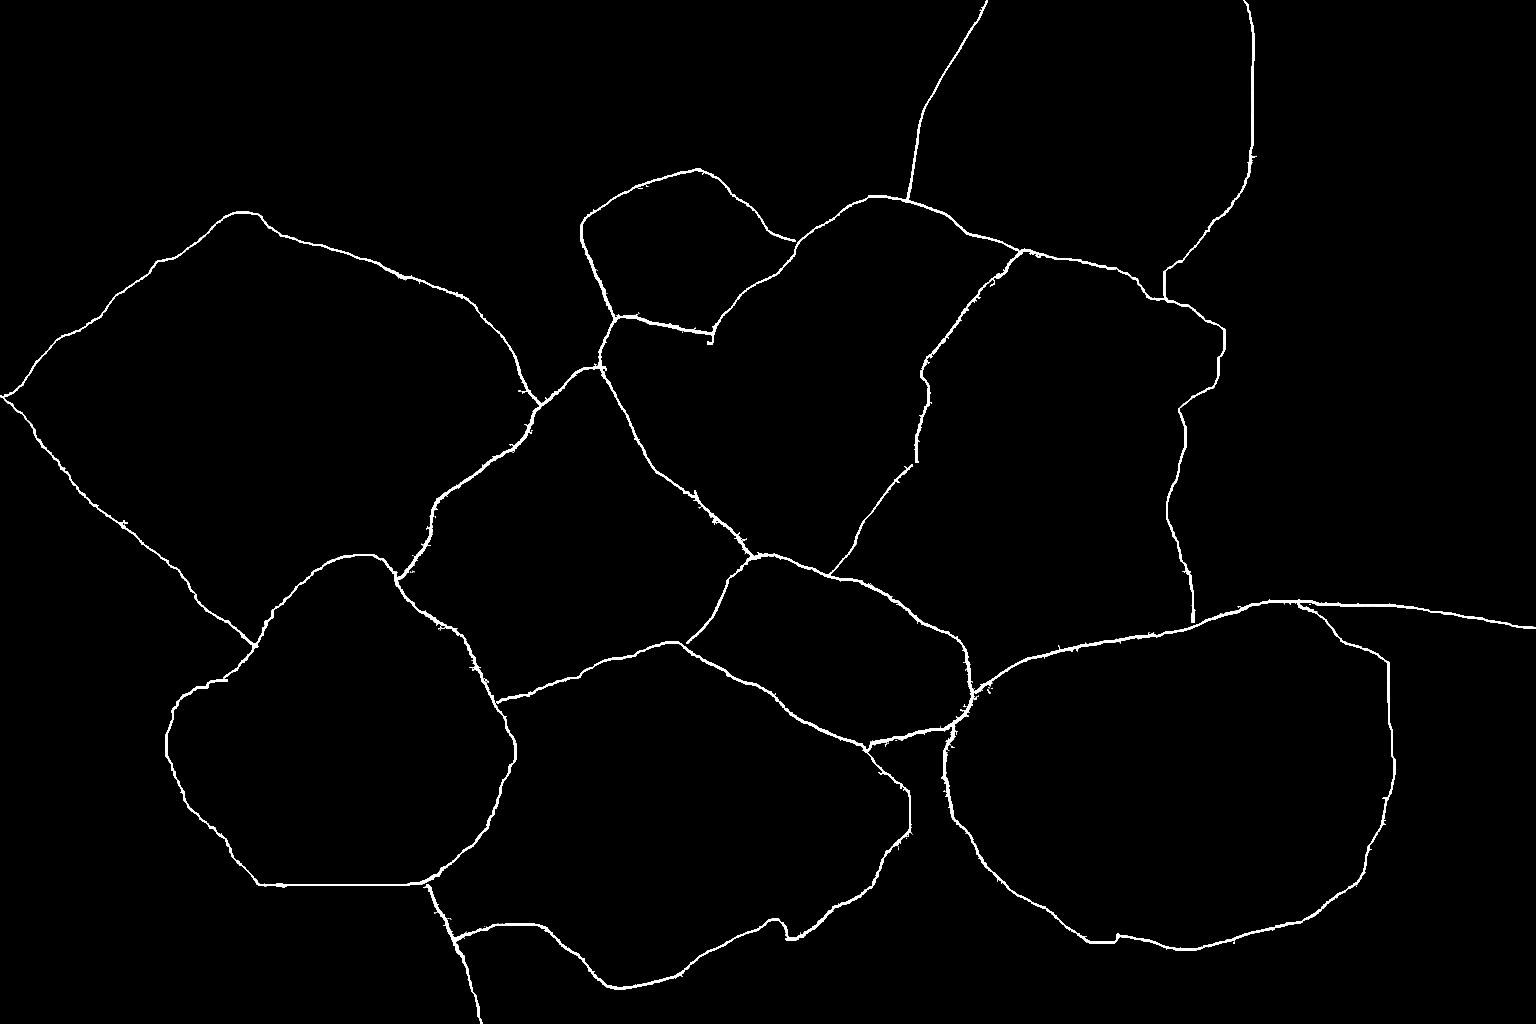
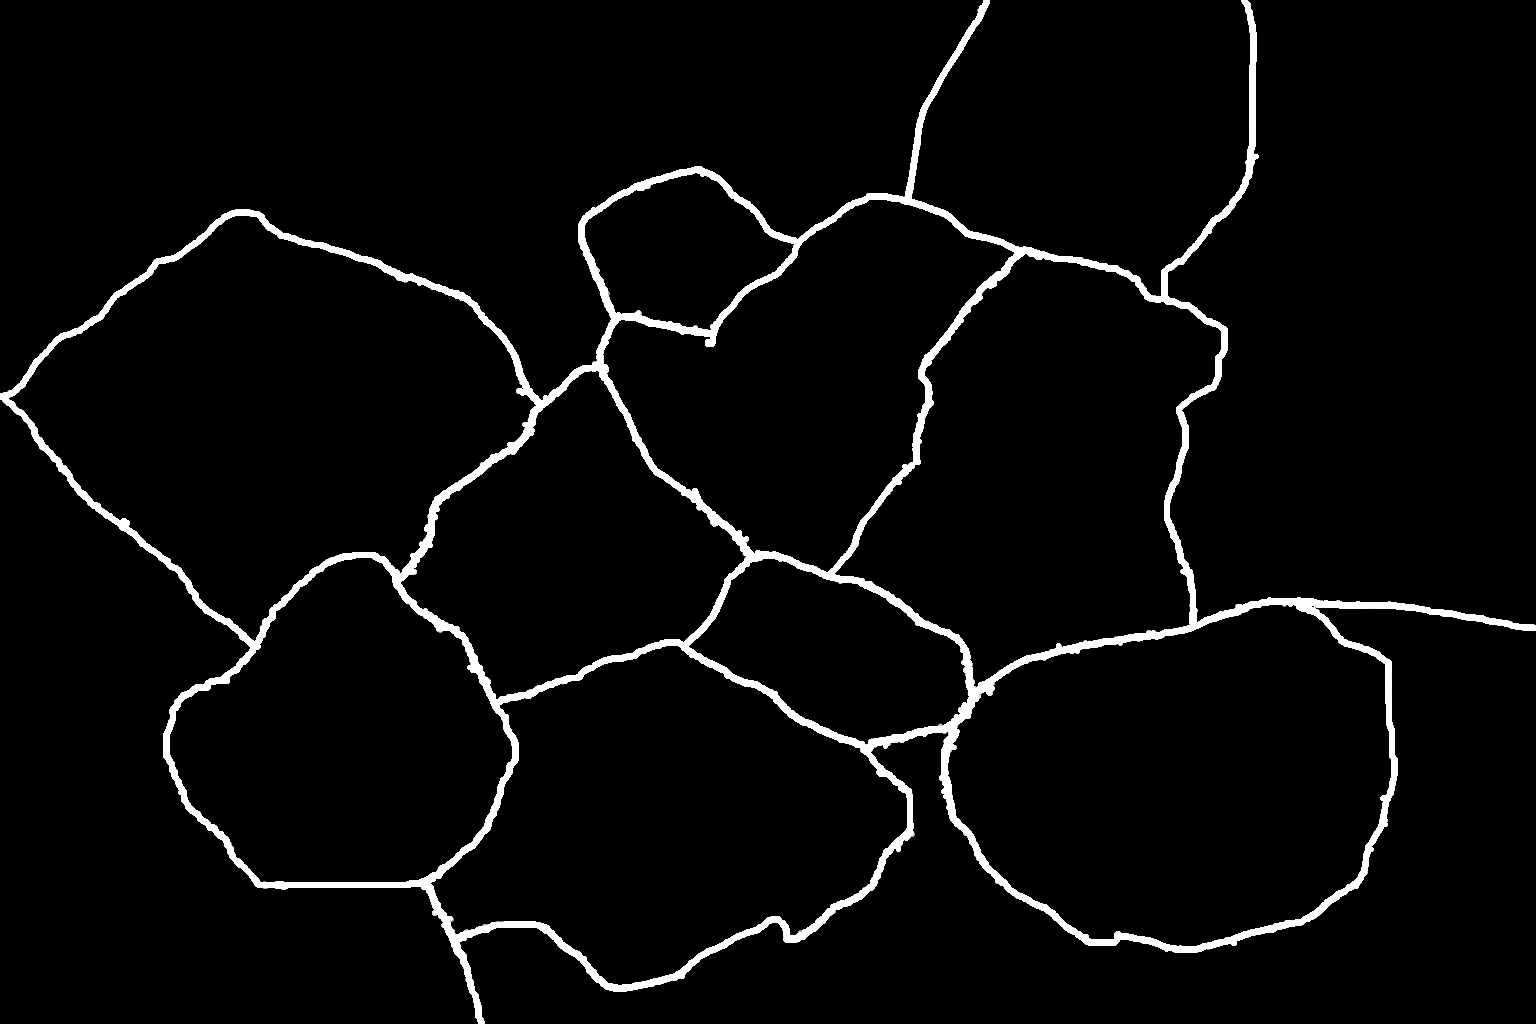
Regen polygons from updated map_limites (61k white px)

diff --git a/index.html b/index.html
@@ -655,26 +655,26 @@ html,body{width:100%;height:100%;overflow:hidden;background:var(--dark);font-fam
     <img id="map-img-night" src="map_vide_nocturne.png" alt="" draggable="false"/>
     <!-- Révélations progressives des bâtiments (clip-path sur map.png / map_nocturne.png) -->
     <!-- welfare et bulle_nego : toujours visibles dès le départ -->
-    <img class="map-reveal" id="reveal-welfare"     src="map.png" style="clip-path:polygon(809.8px 537.9px, 806.8px 547.8px, 801.6px 557px, 799.8px 566.2px, 797.5px 575.5px, 791.6px 583.4px, 783.4px 589.3px, 777px 594.6px, 771.1px 600.5px, 764.6px 605.1px, 757px 607.8px, 749.4px 609.7px, 743px 611.7px, 735.9px 613px, 729.5px 615px, 723.6px 617.7px, 717.8px 619.6px, 711.3px 621.6px, 704.9px 622.9px, 697.9px 624.9px, 691.4px 624.2px, 684.4px 623.6px, 677.9px 620.9px, 671.5px 619px, 663.9px 617.7px, 656.3px 616.3px, 643.4px 620.3px, 634.6px 617px, 627px 611.7px, 619.9px 605.1px, 612.3px 597.9px, 601.8px 591.9px, 590.6px 584.7px, 582.4px 574.8px, 574.2px 563.6px, 568.9px 551.1px, 558.4px 537.9px, 556.1px 523.4px, 553.7px 508.2px, 554.9px 492.4px, 559px 477.9px, 568.4px 466px, 580.1px 456.8px, 586.5px 444.3px, 597.7px 436.4px, 611.7px 433.1px, 623.4px 429.1px, 635.2px 425.8px, 646.3px 423.2px, 656.8px 421.9px, 666.8px 420.6px, 676.8px 419.2px, 686.1px 417.3px, 695.5px 414.6px, 704.9px 410.7px, 714.8px 406.7px, 726px 403.4px, 737.7px 398.8px, 750.6px 396.8px, 761.7px 400.8px, 772.9px 405.4px, 781.1px 415.9px, 789.3px 424.5px, 802.1px 428.5px, 812.1px 436.4px, 812.7px 452.9px, 813.3px 467.4px, 814.5px 480.5px, 815px 493.1px, 816.2px 504.3px, 815px 516.1px, 811.5px 527.3px)" draggable="false"/>
-    <img class="map-reveal" id="reveal-bulle_nego"  src="map.png" style="clip-path:polygon(548.4px 415.3px, 561.9px 423.2px, 565.4px 431.8px, 566.6px 441px, 567.2px 450.2px, 568.4px 460.1px, 562.5px 467.4px, 558.4px 475.3px, 550.2px 479.9px, 540.8px 481.2px, 532.6px 483.2px, 525.6px 485.2px, 519.1px 487.1px, 512.7px 488.5px, 506.8px 491.7px, 499.8px 487.8px, 493.4px 485.8px, 487.5px 483.2px, 482.2px 480.5px, 477.5px 477.9px, 472.9px 475.3px, 468.2px 473.3px, 464.6px 470.7px, 461.1px 466.7px, 457.6px 463.4px, 454.7px 459.4px, 451.8px 456.2px, 447.7px 454.2px, 444.1px 451.5px, 438.9px 449.6px, 433px 447.6px, 427.7px 444.3px, 422.5px 439.7px, 414.8px 435.7px, 406.6px 430.4px, 403.7px 423.2px, 411.3px 415.3px, 416px 408.7px, 419.5px 402.8px, 421.9px 396.8px, 423.6px 391.6px, 426px 385.6px, 428.3px 380.3px, 433px 376.4px, 436.5px 371.8px, 440.6px 368.5px, 445.9px 366.5px, 451.8px 366.5px, 458.2px 367.8px, 463.5px 369.8px, 468.7px 373.1px, 472.9px 375.1px, 475.8px 375.1px, 479.3px 377.1px, 482.2px 379px, 485.2px 380.3px, 487.5px 381px, 490.4px 381.7px, 492.8px 382.3px, 495.7px 382.3px, 499.2px 382.3px, 502.1px 383px, 505.1px 385px, 508px 386.3px, 510.9px 388.3px, 515px 389.6px, 518px 392.2px, 520.9px 394.8px, 526.2px 397.5px, 529.7px 400.8px, 533.8px 405.4px, 537.3px 410px)" draggable="false"/>
+    <img class="map-reveal" id="reveal-welfare"     src="map.png" style="clip-path:polygon(808.6px 537.9px, 805.1px 547.8px, 799.8px 557px, 798.6px 566.2px, 796.3px 575.5px, 789.8px 582.7px, 782.2px 588px, 775.8px 593.9px, 770.5px 599.9px, 763.5px 603.8px, 755.9px 606.4px, 748.8px 608.4px, 742.4px 610.4px, 735.4px 611.7px, 729.5px 613.7px, 723.6px 615.7px, 717.8px 618.3px, 711.3px 619.6px, 704.9px 621.6px, 698.4px 623.6px, 691.4px 622.9px, 685px 622.3px, 678.5px 619.6px, 672.1px 617.7px, 665px 616.3px, 656.8px 615px, 644.5px 619px, 635.7px 615.7px, 627.5px 611.1px, 620.5px 604.5px, 614.1px 597.2px, 603.5px 591.3px, 591.8px 584px, 583.6px 574.1px, 576px 563.6px, 570.7px 551.1px, 560.2px 537.9px, 557.2px 523.4px, 555.5px 508.2px, 559.6px 493.7px, 560.2px 478.6px, 569.5px 466.7px, 581.3px 457.5px, 587.1px 444.9px, 598.8px 437.7px, 612.9px 434.4px, 624px 429.8px, 635.7px 427.1px, 646.9px 424.5px, 657.4px 423.9px, 667.4px 422.5px, 677.3px 421.2px, 686.1px 418.6px, 695.5px 416.6px, 704.9px 412px, 714.8px 408px, 725.4px 405.4px, 737.7px 400.1px, 750px 398.1px, 761.1px 402.1px, 772.3px 406.7px, 779.9px 417.3px, 788.7px 425.8px, 801px 429.8px, 811.5px 437.7px, 811.5px 454.2px, 812.1px 468.7px, 813.3px 481.2px, 813.9px 493.1px, 815px 504.9px, 813.9px 516.1px, 809.2px 527.3px)" draggable="false"/>
+    <img class="map-reveal" id="reveal-bulle_nego"  src="map.png" style="clip-path:polygon(545.5px 415.3px, 559.6px 423.2px, 564.3px 431.8px, 564.3px 440.3px, 565.4px 449.6px, 567.2px 460.1px, 561.3px 466.7px, 557.2px 474px, 549px 478.6px, 539.6px 479.9px, 532px 481.9px, 525px 483.8px, 518.6px 485.8px, 512.1px 487.1px, 505.7px 488.5px, 499.2px 486.5px, 493.4px 484.5px, 487.5px 481.9px, 482.2px 479.2px, 477.5px 475.9px, 472.9px 474px, 468.7px 472px, 465.2px 468.7px, 461.7px 465.4px, 458.2px 462.1px, 455.9px 458.1px, 452.9px 454.8px, 448.8px 452.9px, 445.3px 450.2px, 440.6px 448.2px, 434.2px 446.9px, 428.3px 443.6px, 424.2px 439px, 417.2px 435.1px, 407.8px 429.8px, 406.1px 422.5px, 413.1px 415.3px, 417.8px 408.7px, 420.7px 402.8px, 423px 397.5px, 424.8px 391.6px, 427.1px 386.3px, 429.5px 381px, 433.6px 377.1px, 437.7px 373.1px, 441.8px 369.8px, 447.1px 367.8px, 452.9px 367.8px, 458.8px 369.1px, 464.6px 372.4px, 469.3px 375.1px, 472.9px 376.4px, 476.4px 377.7px, 479.3px 379px, 482.2px 381px, 484.6px 381.7px, 487.5px 382.3px, 489.8px 383px, 492.2px 384.3px, 495.1px 383.6px, 498.6px 383.6px, 501.6px 384.3px, 503.9px 386.3px, 506.8px 387.6px, 509.8px 388.9px, 513.3px 390.9px, 516.8px 392.9px, 519.7px 395.5px, 523.2px 398.1px, 527.9px 401.4px, 531.4px 405.4px, 536.1px 410px)" draggable="false"/>
     <!-- zones verrouillées au départ -->
-    <img class="map-reveal" id="reveal-playroom_ext" src="map.png" style="clip-path:polygon(311.1px 261px, 310.5px 276.2px, 304.7px 290px, 288.3px 300.6px, 278.9px 310.5px, 268.9px 319px, 258.4px 326.3px, 252.5px 335.5px, 250.2px 348px, 247.3px 361.2px, 240.8px 371.8px, 225px 368.5px, 211.5px 365.2px, 201.6px 365.8px, 193.4px 369.1px, 185.2px 375.1px, 177.5px 383px, 168.8px 392.9px, 158.2px 406.7px, 145.9px 421.9px, 134.8px 410px, 124.2px 404.1px, 114.8px 394.2px, 108.4px 381px, 100.8px 373.1px, 93.2px 365.2px, 85px 359.3px, 77.9px 351.3px, 70.3px 344.1px, 61.5px 337.5px, 52.7px 329.6px, 45.1px 320.4px, 38.1px 310.5px, 29.9px 299.9px, 21.1px 288.1px, 14.6px 274.9px, 4.1px 261px, 16.4px 247.2px, 24.6px 234.7px, 34px 223.5px, 48.6px 216.2px, 58.6px 209px, 63.9px 199.7px, 71.5px 192.5px, 78.5px 185.9px, 86.7px 180.6px, 92px 172px, 102px 170.1px, 108.4px 164.8px, 116px 158.9px, 122.5px 151.6px, 130.1px 143.7px, 139.5px 140.4px, 148.8px 141.1px, 158.2px 150.3px, 166.4px 155.6px, 174px 158.2px, 182.2px 160.8px, 189.8px 162.8px, 198px 165.5px, 205.7px 168.1px, 213.9px 171.4px, 222.7px 174.7px, 230.3px 180px, 240.2px 183.3px, 251.4px 187.9px, 263.1px 193.1px, 275.4px 199.7px, 283px 209.6px, 293px 220.2px, 300px 232.7px, 303.5px 246.5px)" draggable="false"/>
-    <img class="map-reveal" id="reveal-tente_cer"    src="map.png" style="clip-path:polygon(294.1px 471.3px, 295.9px 479.9px, 300.6px 489.8px, 301.2px 499.7px, 297.7px 508.2px, 293.6px 516.8px, 291.2px 526px, 288.3px 535.9px, 284.8px 545.1px, 278.9px 552.4px, 272.5px 559px, 266px 566.2px, 258.4px 571.5px, 251.4px 578.1px, 242.6px 581.4px, 233.2px 582.7px, 224.4px 582.7px, 215.6px 582.7px, 206.8px 582.7px, 198px 582.7px, 189.3px 582.7px, 180.5px 582.7px, 170.5px 582.7px, 160.5px 582.7px, 150.6px 580.7px, 143.6px 572.8px, 136.5px 564.9px, 133px 554.4px, 126.6px 547.1px, 118.9px 540.5px, 111.9px 533.3px, 107.8px 523.4px, 103.7px 513.5px, 100.8px 503px, 97.9px 493.1px, 98.4px 481.9px, 101.4px 471.3px, 104.9px 461.4px, 118.4px 453.5px, 133px 448.9px, 136.5px 442.3px, 141.2px 437px, 145.9px 431.8px, 150px 426.5px, 152.3px 419.9px, 155.3px 413.3px, 159.4px 407.4px, 162.3px 400.1px, 167.6px 394.8px, 172.9px 388.9px, 178.1px 383.6px, 184px 376.4px, 191px 371.8px, 198.6px 368.5px, 206.8px 366.5px, 215px 365.8px, 222.7px 369.1px, 229.7px 376.4px, 233.8px 387.6px, 238.5px 395.5px, 243.2px 400.8px, 248.4px 404.7px, 253.7px 408.7px, 257.8px 414px, 265.4px 415.9px, 271.3px 420.6px, 273.6px 427.8px, 276px 435.1px, 278.9px 441.7px, 281.8px 448.9px, 285.4px 455.5px, 288.9px 463.4px)" draggable="false"/>
-    <img class="map-reveal" id="reveal-mixroom"      src="map.png" style="clip-path:polygon(523.2px 514.2px, 532.6px 526px, 532.6px 538.5px, 529.7px 550.4px, 520.9px 559.6px, 515.6px 569.5px, 511.5px 580.1px, 504.5px 588px, 495.7px 594.6px, 486.3px 599.9px, 479.3px 606.4px, 472.3px 613.7px, 458.2px 607.8px, 448.8px 607.1px, 441.8px 612.4px, 434.2px 615.7px, 426.6px 620.3px, 418.9px 624.9px, 410.2px 629.5px, 400.8px 638.1px, 389.6px 644.7px, 378.5px 648px, 366.2px 650px, 354.5px 648px, 346.3px 638.7px, 338.7px 628.9px, 329.3px 622.3px, 321.7px 613.7px, 310.5px 608.4px, 289.5px 609.1px, 262.5px 610.4px, 255.5px 595.2px, 257.2px 576.8px, 279.5px 553.7px, 287.7px 538.5px, 291.8px 526px, 295.3px 514.2px, 300px 503.6px, 302.3px 493.1px, 297.1px 479.9px, 291.2px 465.4px, 305.3px 458.8px, 317px 453.5px, 327.5px 448.9px, 338.7px 446.9px, 345.1px 441px, 352.1px 436.4px, 360.4px 434.4px, 368.6px 433.1px, 375px 429.1px, 381.4px 426.5px, 389.1px 424.5px, 396.1px 423.9px, 403.7px 429.8px, 410.2px 434.4px, 416px 438.4px, 421.9px 441px, 426.6px 445.6px, 431.3px 448.2px, 436.5px 450.9px, 442.4px 451.5px, 447.1px 454.8px, 452.3px 457.5px, 456.4px 462.1px, 459.4px 467.4px, 464.1px 472px, 469.3px 475.9px, 477px 479.2px, 484.6px 483.8px, 495.7px 488.5px, 506.2px 495px, 513.3px 504.3px)" draggable="false"/>
-    <img class="map-reveal" id="reveal-bat1"         src="map.png" style="clip-path:polygon(563.7px 205px, 560.2px 212.3px, 555.5px 218.8px, 551.4px 224.8px, 547.3px 230.7px, 542.6px 235.3px, 540.2px 241.3px, 539.1px 247.2px, 543.2px 259.7px, 541.4px 268.3px, 539.1px 277.5px, 536.1px 286.7px, 536.1px 303.9px, 529.1px 310.5px, 522.1px 319px, 515px 329.6px, 506.8px 342.1px, 497.5px 363.2px, 485.2px 378.4px, 472.3px 373.1px, 460px 367.2px, 447.1px 365.2px, 436.5px 355.3px, 426.6px 346.7px, 417.2px 338.2px, 409px 327.6px, 398.4px 321px, 389.1px 313.1px, 380.9px 303.9px, 375px 292px, 369.7px 280.2px, 364.5px 268.3px, 358.6px 257.1px, 417.8px 225.4px, 418.9px 218.2px, 421.9px 210.9px, 426.6px 205px, 430.7px 199.7px, 433.6px 195.1px, 437.7px 190.5px, 442.4px 187.2px, 447.1px 185.2px, 451.2px 183.3px, 454.7px 181.3px, 457px 178.6px, 458.8px 175.3px, 461.1px 172.7px, 463.5px 170.7px, 465.8px 167.4px, 467px 161.5px, 469.9px 157.5px, 472.9px 154.2px, 477px 151px, 481.1px 149px, 485.2px 146.3px, 489.8px 142.4px, 495.7px 137.1px, 502.1px 133.8px, 509.2px 129.9px, 516.2px 129.9px, 522.7px 131.2px, 530.3px 132.5px, 537.9px 134.5px, 544.9px 137.8px, 553.1px 141.1px, 559px 147px, 565.4px 152.9px, 576.6px 156.9px, 590px 162.2px, 590px 173.4px, 576.6px 187.2px, 570.1px 196.4px)" draggable="false"/>
-    <img class="map-reveal" id="reveal-bat2"         src="map.png" style="clip-path:polygon(711.3px 253.1px, 703.7px 257.7px, 697.9px 261px, 695.5px 264.3px, 899.4px 352px, 690.2px 270.3px, 691.4px 274.9px, 693.8px 280.8px, 693.8px 286.7px, 693.8px 293.3px, 692px 298.6px, 690.2px 305.2px, 689.1px 313.1px, 686.1px 320.4px, 683.2px 330.2px, 696.1px 413.3px, 683.8px 415.9px, 670.9px 418.6px, 658px 420.6px, 645.1px 422.5px, 631.1px 425.8px, 616.4px 429.1px, 599.4px 434.4px, 576.6px 450.2px, 566.6px 431.1px, 556.1px 416.6px, 540.8px 410px, 528.5px 398.8px, 515px 388.3px, 495.7px 381px, 502.1px 354.6px, 517.4px 327px, 537.3px 302.6px, 537.3px 289.4px, 540.2px 276.2px, 544.3px 264.3px, 543.8px 253.1px, 540.8px 241.3px, 548.4px 231.4px, 555.5px 222.1px, 560.7px 212.9px, 565.4px 204.3px, 571.3px 197.1px, 576.6px 188.5px, 584.2px 183.3px, 590px 176.7px, 595.3px 169.4px, 604.7px 167.4px, 615.2px 169.4px, 624px 170.7px, 631.6px 172px, 639.3px 174.7px, 645.7px 176px, 652.1px 177.3px, 658px 180px, 663.3px 183.3px, 668px 188.5px, 671.5px 195.8px, 676.2px 197.1px, 681.4px 197.1px, 686.1px 199.1px, 690.8px 201px, 696.7px 201.7px, 700.8px 205px, 704.3px 209.6px, 709.6px 212.9px, 715.4px 216.2px, 716.6px 222.8px, 716.6px 229.4px, 713.1px 236.6px, 713.1px 242.6px, 713.1px 247.9px)" draggable="false"/>
-    <img class="map-reveal" id="reveal-cantina"      src="map.png" style="clip-path:polygon(899.4px 303.2px, 899.4px 314.4px, 899.4px 326.3px, 899.4px 338.2px, 899.4px 350px, 899.4px 363.2px, 899.4px 377.7px, 899.4px 393.5px, 899.4px 412px, 880.1px 410px, 861.3px 406.1px, 847.3px 403.4px, 835.5px 401.4px, 825px 399.5px, 815.6px 398.1px, 808px 398.1px, 799.8px 398.1px, 792.8px 398.1px, 785.2px 397.5px, 777.5px 397.5px, 770.5px 396.2px, 762.9px 395.5px, 755.3px 395.5px, 747.1px 395.5px, 737.1px 397.5px, 725.4px 399.5px, 707.8px 407.4px, 699px 400.1px, 697.9px 385.6px, 694.9px 374.4px, 691.4px 364.5px, 688.5px 354px, 685px 344.1px, 683.8px 333.5px, 686.7px 323px, 690.2px 312.5px, 692px 303.2px, 694.9px 294px, 694.9px 285.4px, 693.2px 275.5px, 694.3px 266.3px, 702.5px 259.7px, 710.7px 255.1px, 714.3px 247.2px, 714.3px 236px, 717.8px 227.4px, 688.5px 174px, 698.4px 164.1px, 707.8px 152.3px, 717.8px 141.1px, 727.7px 125.9px, 734.2px 89.6px, 737.7px 0px, 761.7px 0px, 785.2px 0px, 808.6px 0px, 832.6px 0px, 857.2px 0px, 883.6px 0px, 899.4px 26.4px, 899.4px 79.8px, 899.4px 119.3px, 899.4px 149px, 899.4px 174px, 899.4px 194.5px, 899.4px 212.9px, 899.4px 228.7px, 899.4px 243.2px, 899.4px 256.4px, 899.4px 268.3px, 899.4px 280.2px, 899.4px 292px)" draggable="false"/>
-    <img class="map-reveal" id="reveal-pmu"          src="map.png" style="clip-path:polygon(464.1px 168.1px, 460.5px 172.7px, 457px 177.3px, 452.9px 180.6px, 448.2px 183.3px, 444.1px 185.2px, 441.2px 187.2px, 438.3px 189.2px, 435.9px 191.2px, 434.2px 193.1px, 432.4px 195.1px, 430.7px 197.8px, 428.9px 201px, 426.6px 203.7px, 424.2px 205.7px, 421.9px 209px, 418.9px 212.9px, 416px 218.8px, 411.9px 218.2px, 407.8px 217.5px, 404.3px 216.9px, 400.2px 216.2px, 397.3px 214.2px, 393.2px 213.6px, 389.1px 212.9px, 384.4px 212.3px, 379.7px 210.9px, 375px 209.6px, 370.3px 207.6px, 362.1px 207.6px, 358px 203px, 355.7px 197.8px, 354.5px 191.8px, 352.1px 185.9px, 349.2px 180.6px, 347.5px 174.7px, 345.1px 168.1px, 342.2px 161.5px, 341px 154.2px, 341.6px 147px, 346.3px 141.1px, 352.1px 136.5px, 356.8px 132.5px, 362.1px 128.5px, 368px 126.6px, 372.1px 123.3px, 376.8px 121.3px, 381.4px 119.3px, 386.1px 118px, 390.8px 116.7px, 394.9px 115.4px, 399px 114px, 403.1px 113.4px, 407.8px 112.1px, 411.9px 114px, 416px 115.4px, 420.1px 117.3px, 423px 120.6px, 426px 124.6px, 428.3px 127.9px, 431.3px 131.2px, 434.2px 132.5px, 437.1px 134.5px, 440px 136.5px, 442.4px 139.1px, 444.1px 143px, 446.5px 145.7px, 448.2px 149px, 450px 152.3px, 454.7px 154.9px, 462.3px 158.2px, 465.8px 162.8px)" draggable="false"/>
+    <img class="map-reveal" id="reveal-playroom_ext" src="map.png" style="clip-path:polygon(309.4px 261px, 309.4px 276.2px, 302.9px 290px, 287.1px 299.9px, 277.7px 309.8px, 267.2px 318.4px, 257.2px 325.6px, 252px 334.9px, 249px 346.7px, 245.5px 359.3px, 239.6px 369.8px, 223.8px 366.5px, 210.9px 363.9px, 201px 364.5px, 192.8px 367.8px, 185.2px 373.1px, 177px 381.7px, 168.2px 391.6px, 158.2px 400.8px, 145.9px 419.9px, 135.4px 408.7px, 124.2px 402.8px, 116px 390.9px, 109px 379.7px, 101.4px 371.8px, 93.8px 363.9px, 86.1px 357.9px, 79.1px 350px, 72.7px 341.5px, 62.1px 336.8px, 53.9px 328.9px, 46.3px 319.7px, 39.8px 309.8px, 32.2px 299.3px, 23.4px 288.1px, 16.4px 274.9px, 7px 261px, 18.2px 247.2px, 26.4px 234.7px, 35.7px 224.1px, 50.4px 216.9px, 59.8px 209.6px, 65px 200.4px, 72.7px 193.8px, 80.3px 187.2px, 87.3px 181.3px, 93.2px 173.4px, 102.5px 171.4px, 109.6px 166.1px, 116.6px 160.2px, 123.6px 153.6px, 130.7px 146.3px, 139.5px 141.7px, 148.8px 142.4px, 158.2px 151.6px, 166.4px 157.5px, 174px 160.2px, 181.6px 162.2px, 189.3px 164.1px, 197.5px 166.8px, 205.1px 169.4px, 213.3px 172.7px, 221.5px 176px, 229.1px 181.3px, 238.5px 185.2px, 249.6px 188.5px, 261.9px 193.8px, 274.2px 200.4px, 281.3px 210.3px, 291.2px 220.8px, 298.8px 233.3px, 302.3px 246.5px)" draggable="false"/>
+    <img class="map-reveal" id="reveal-tente_cer"    src="map.png" style="clip-path:polygon(292.4px 471.3px, 294.7px 479.9px, 299.4px 489.8px, 300px 499.7px, 296.5px 508.2px, 292.4px 516.1px, 290px 525.4px, 287.1px 534.6px, 283.6px 543.8px, 278.3px 551.7px, 271.9px 558.3px, 265.4px 565.6px, 257.8px 570.2px, 250.8px 576.8px, 242px 580.1px, 233.2px 581.4px, 224.4px 581.4px, 215.6px 581.4px, 206.8px 581.4px, 198px 581.4px, 189.3px 581.4px, 180.5px 581.4px, 171.1px 581.4px, 161.7px 580.7px, 151.2px 580.1px, 144.7px 570.8px, 137.7px 563.6px, 134.2px 553.1px, 127.1px 546.5px, 120.1px 539.9px, 113.1px 532.6px, 109px 522.7px, 104.9px 512.8px, 102px 503px, 99px 492.4px, 100.2px 481.9px, 102.5px 471.3px, 107.2px 461.4px, 121.9px 454.2px, 134.2px 449.6px, 138.3px 443.6px, 143px 437.7px, 147.1px 432.4px, 151.2px 427.1px, 153.5px 421.2px, 156.4px 414.6px, 160px 408.7px, 163.5px 401.4px, 168.2px 396.8px, 173.4px 390.2px, 178.7px 385px, 184.6px 378.4px, 191.6px 373.1px, 198.6px 369.8px, 206.8px 367.8px, 215px 367.2px, 222.7px 370.5px, 229.1px 379px, 233.2px 390.2px, 237.9px 396.8px, 242.6px 401.4px, 247.9px 405.4px, 252.5px 410px, 256.1px 415.9px, 264.8px 416.6px, 270.1px 421.2px, 273px 428.5px, 274.8px 435.7px, 276px 443px, 280.7px 448.9px, 284.2px 456.2px, 287.1px 463.4px)" draggable="false"/>
+    <img class="map-reveal" id="reveal-mixroom"      src="map.png" style="clip-path:polygon(521.5px 514.2px, 531.4px 526px, 531.4px 537.9px, 527.9px 549.8px, 519.1px 559px, 514.5px 568.9px, 510.4px 579.4px, 503.3px 587.3px, 493.4px 593.3px, 485.2px 598.5px, 478.1px 605.8px, 471.1px 612.4px, 456.4px 603.8px, 448.2px 605.8px, 441.2px 611.1px, 434.2px 614.4px, 426.6px 618.3px, 418.9px 623.6px, 410.2px 627.5px, 400.8px 636.8px, 390.2px 642.7px, 378.5px 646.7px, 366.8px 648.6px, 355.1px 646.7px, 346.9px 637.4px, 339.8px 627.5px, 330.5px 620.9px, 322.9px 612.4px, 311.7px 607.1px, 291.8px 607.8px, 263.7px 609.7px, 257.2px 594.6px, 259.6px 575.5px, 282.4px 552.4px, 290px 537.9px, 293.6px 525.4px, 297.1px 514.2px, 301.8px 503.6px, 303.5px 493.1px, 299.4px 480.5px, 292.4px 466px, 306.4px 460.1px, 318.8px 454.8px, 329.3px 450.2px, 339.8px 447.6px, 345.7px 441.7px, 353.3px 437.7px, 361.5px 435.7px, 369.1px 434.4px, 375.6px 430.4px, 382px 427.8px, 389.1px 425.8px, 396.1px 425.2px, 403.7px 432.4px, 410.2px 436.4px, 416px 439.7px, 421.3px 442.3px, 426px 446.9px, 431.3px 449.6px, 435.9px 452.2px, 441.2px 452.9px, 446.5px 456.2px, 451.2px 459.4px, 455.3px 463.4px, 458.8px 468.7px, 462.3px 472.6px, 468.2px 476.6px, 475.2px 479.9px, 482.8px 484.5px, 492.2px 489.1px, 504.5px 495.7px, 511.5px 504.3px)" draggable="false"/>
+    <img class="map-reveal" id="reveal-bat1"         src="map.png" style="clip-path:polygon(561.9px 205px, 558.4px 212.3px, 553.7px 218.8px, 549.6px 224.8px, 545.5px 230.1px, 541.4px 234.7px, 539.6px 240.6px, 537.9px 246.5px, 542px 258.4px, 540.2px 267px, 537.9px 275.5px, 535px 285.4px, 535px 301.2px, 528.5px 309.2px, 521.5px 317.7px, 514.5px 327.6px, 506.2px 340.1px, 497.5px 360.6px, 485.2px 376.4px, 472.3px 371.8px, 460px 365.8px, 447.7px 363.2px, 437.1px 353.3px, 427.1px 345.4px, 417.8px 336.8px, 409.6px 326.3px, 399.6px 319.7px, 389.6px 312.5px, 381.4px 302.6px, 375.6px 291.4px, 370.9px 279.5px, 365.6px 267.6px, 360.4px 256.4px, 418.9px 224.8px, 420.1px 218.2px, 423px 210.9px, 428.3px 205px, 431.8px 199.7px, 435.4px 195.1px, 439.5px 191.2px, 444.1px 187.9px, 448.8px 185.9px, 452.3px 183.9px, 455.9px 181.9px, 458.2px 179.3px, 460px 176.7px, 462.3px 174px, 464.1px 171.4px, 466.4px 168.8px, 467.6px 163.5px, 470.5px 158.9px, 473.4px 156.2px, 477px 153.6px, 481.1px 151px, 485.2px 148.3px, 489.8px 145px, 495.7px 139.1px, 501.6px 135.1px, 508.6px 131.8px, 515.6px 131.2px, 522.1px 132.5px, 529.7px 133.8px, 536.7px 135.8px, 543.8px 139.1px, 552px 141.7px, 557.8px 147.7px, 564.3px 153.6px, 574.8px 158.2px, 588.9px 162.8px, 588.9px 174px, 574.8px 187.2px, 567.8px 197.1px)" draggable="false"/>
+    <img class="map-reveal" id="reveal-bat2"         src="map.png" style="clip-path:polygon(709.6px 253.1px, 702px 257.7px, 696.7px 261px, 693.8px 263.7px, 690.8px 267px, 689.1px 269.6px, 689.6px 273.6px, 692px 280.2px, 692.6px 285.4px, 692.6px 292px, 691.4px 297.3px, 689.6px 303.9px, 688.5px 311.8px, 685px 319px, 682.6px 328.9px, 695.5px 412px, 683.2px 414.6px, 670.9px 417.3px, 658px 419.2px, 645.1px 421.2px, 631.1px 423.9px, 616.4px 427.8px, 600px 432.4px, 577.7px 447.6px, 567.8px 429.1px, 556.6px 415.9px, 541.4px 409.4px, 529.7px 397.5px, 515.6px 387.6px, 497.5px 379.7px, 503.3px 354px, 520.9px 325px, 538.5px 301.9px, 538.5px 289.4px, 541.4px 276.2px, 546.7px 264.3px, 545.5px 253.1px, 542.6px 241.9px, 549.6px 231.4px, 556.6px 222.8px, 561.9px 213.6px, 567.8px 205.7px, 573px 198.4px, 577.7px 189.8px, 585.4px 184.6px, 591.2px 178px, 596.5px 170.7px, 607px 170.7px, 616.4px 171.4px, 624.6px 172px, 632.2px 173.4px, 639.8px 176px, 646.3px 177.3px, 652.1px 178.6px, 658px 181.3px, 663.3px 185.2px, 667.4px 191.2px, 671.5px 197.1px, 675.6px 198.4px, 680.9px 198.4px, 685px 200.4px, 689.6px 201.7px, 695.5px 203px, 699.6px 206.3px, 703.1px 210.3px, 707.8px 213.6px, 714.3px 216.9px, 715.4px 222.8px, 715.4px 229.4px, 711.9px 236.6px, 711.9px 242.6px, 711.9px 247.9px)" draggable="false"/>
+    <img class="map-reveal" id="reveal-cantina"      src="map.png" style="clip-path:polygon(899.4px 303.2px, 899.4px 314.4px, 899.4px 326.3px, 899.4px 338.2px, 899.4px 350px, 899.4px 363.2px, 899.4px 377.7px, 899.4px 393.5px, 899.4px 412px, 878.3px 408px, 860.7px 404.7px, 846.7px 402.1px, 835px 400.1px, 824.4px 398.1px, 815.6px 396.8px, 807.4px 396.8px, 799.8px 396.8px, 792.2px 396.8px, 785.2px 396.2px, 778.1px 396.2px, 771.1px 394.8px, 763.5px 394.2px, 755.9px 394.2px, 747.7px 394.2px, 737.7px 395.5px, 726px 398.1px, 709px 406.1px, 700.2px 398.8px, 699.6px 384.3px, 696.1px 373.1px, 692.6px 363.2px, 690.2px 353.3px, 686.1px 344.1px, 685px 333.5px, 687.9px 322.3px, 691.4px 312.5px, 693.2px 303.2px, 696.1px 294.7px, 696.1px 285.4px, 694.3px 276.2px, 695.5px 266.3px, 703.7px 260.4px, 711.9px 255.8px, 714.8px 247.9px, 715.4px 237.3px, 718.9px 228.7px, 689.6px 174.7px, 699.6px 165.5px, 708.4px 153.6px, 718.4px 142.4px, 728.3px 127.2px, 737.1px 102.8px, 737.7px 0px, 761.7px 0px, 785.2px 0px, 808.6px 0px, 832.6px 0px, 857.2px 0px, 883.6px 0px, 899.4px 26.4px, 899.4px 79.8px, 899.4px 119.3px, 899.4px 149px, 899.4px 174px, 899.4px 194.5px, 899.4px 212.9px, 899.4px 228.7px, 899.4px 243.2px, 899.4px 256.4px, 899.4px 268.3px, 899.4px 280.2px, 899.4px 292px)" draggable="false"/>
+    <img class="map-reveal" id="reveal-pmu"          src="map.png" style="clip-path:polygon(462.3px 168.1px, 458.8px 172.7px, 455.3px 176.7px, 451.8px 180px, 446.5px 182.6px, 443px 184.6px, 440px 186.5px, 437.7px 188.5px, 435.4px 189.8px, 433.6px 192.5px, 431.3px 194.5px, 430.1px 197.1px, 428.3px 199.7px, 426px 202.4px, 423.6px 204.3px, 421.3px 207px, 418.9px 211.6px, 416px 217.5px, 411.9px 216.9px, 408.4px 215.6px, 404.3px 215.6px, 400.8px 214.9px, 397.3px 212.9px, 393.8px 212.3px, 389.6px 211.6px, 385.5px 210.9px, 380.9px 210.3px, 376.2px 208.3px, 373.8px 204.3px, 363.3px 206.3px, 359.2px 202.4px, 356.8px 197.1px, 355.7px 191.2px, 353.3px 185.9px, 350.4px 180.6px, 348.6px 174px, 346.3px 168.1px, 343.9px 161.5px, 342.2px 154.2px, 342.8px 147px, 348px 141.7px, 352.7px 137.1px, 358px 133.2px, 363.3px 129.9px, 368.6px 127.2px, 373.8px 125.2px, 379.1px 123.9px, 382.6px 120.6px, 387.3px 119.3px, 391.4px 118px, 395.5px 116.7px, 399.6px 115.4px, 403.7px 114.7px, 407.8px 113.4px, 411.9px 116px, 416px 117.3px, 419.5px 118.7px, 423px 121.9px, 425.4px 126.6px, 427.7px 129.9px, 430.7px 131.8px, 433px 133.8px, 435.9px 135.8px, 438.9px 137.8px, 441.2px 140.4px, 443px 143.7px, 445.3px 146.3px, 447.1px 149.6px, 448.2px 152.9px, 452.9px 155.6px, 458.8px 158.9px, 464.6px 162.8px)" draggable="false"/>
     <!-- versions nocturnes -->
-    <img class="map-reveal-night" id="reveal-night-welfare"     src="map_nocturne.png" style="clip-path:polygon(809.8px 537.9px, 806.8px 547.8px, 801.6px 557px, 799.8px 566.2px, 797.5px 575.5px, 791.6px 583.4px, 783.4px 589.3px, 777px 594.6px, 771.1px 600.5px, 764.6px 605.1px, 757px 607.8px, 749.4px 609.7px, 743px 611.7px, 735.9px 613px, 729.5px 615px, 723.6px 617.7px, 717.8px 619.6px, 711.3px 621.6px, 704.9px 622.9px, 697.9px 624.9px, 691.4px 624.2px, 684.4px 623.6px, 677.9px 620.9px, 671.5px 619px, 663.9px 617.7px, 656.3px 616.3px, 643.4px 620.3px, 634.6px 617px, 627px 611.7px, 619.9px 605.1px, 612.3px 597.9px, 601.8px 591.9px, 590.6px 584.7px, 582.4px 574.8px, 574.2px 563.6px, 568.9px 551.1px, 558.4px 537.9px, 556.1px 523.4px, 553.7px 508.2px, 554.9px 492.4px, 559px 477.9px, 568.4px 466px, 580.1px 456.8px, 586.5px 444.3px, 597.7px 436.4px, 611.7px 433.1px, 623.4px 429.1px, 635.2px 425.8px, 646.3px 423.2px, 656.8px 421.9px, 666.8px 420.6px, 676.8px 419.2px, 686.1px 417.3px, 695.5px 414.6px, 704.9px 410.7px, 714.8px 406.7px, 726px 403.4px, 737.7px 398.8px, 750.6px 396.8px, 761.7px 400.8px, 772.9px 405.4px, 781.1px 415.9px, 789.3px 424.5px, 802.1px 428.5px, 812.1px 436.4px, 812.7px 452.9px, 813.3px 467.4px, 814.5px 480.5px, 815px 493.1px, 816.2px 504.3px, 815px 516.1px, 811.5px 527.3px)" draggable="false"/>
-    <img class="map-reveal-night" id="reveal-night-bulle_nego"  src="map_nocturne.png" style="clip-path:polygon(548.4px 415.3px, 561.9px 423.2px, 565.4px 431.8px, 566.6px 441px, 567.2px 450.2px, 568.4px 460.1px, 562.5px 467.4px, 558.4px 475.3px, 550.2px 479.9px, 540.8px 481.2px, 532.6px 483.2px, 525.6px 485.2px, 519.1px 487.1px, 512.7px 488.5px, 506.8px 491.7px, 499.8px 487.8px, 493.4px 485.8px, 487.5px 483.2px, 482.2px 480.5px, 477.5px 477.9px, 472.9px 475.3px, 468.2px 473.3px, 464.6px 470.7px, 461.1px 466.7px, 457.6px 463.4px, 454.7px 459.4px, 451.8px 456.2px, 447.7px 454.2px, 444.1px 451.5px, 438.9px 449.6px, 433px 447.6px, 427.7px 444.3px, 422.5px 439.7px, 414.8px 435.7px, 406.6px 430.4px, 403.7px 423.2px, 411.3px 415.3px, 416px 408.7px, 419.5px 402.8px, 421.9px 396.8px, 423.6px 391.6px, 426px 385.6px, 428.3px 380.3px, 433px 376.4px, 436.5px 371.8px, 440.6px 368.5px, 445.9px 366.5px, 451.8px 366.5px, 458.2px 367.8px, 463.5px 369.8px, 468.7px 373.1px, 472.9px 375.1px, 475.8px 375.1px, 479.3px 377.1px, 482.2px 379px, 485.2px 380.3px, 487.5px 381px, 490.4px 381.7px, 492.8px 382.3px, 495.7px 382.3px, 499.2px 382.3px, 502.1px 383px, 505.1px 385px, 508px 386.3px, 510.9px 388.3px, 515px 389.6px, 518px 392.2px, 520.9px 394.8px, 526.2px 397.5px, 529.7px 400.8px, 533.8px 405.4px, 537.3px 410px)" draggable="false"/>
-    <img class="map-reveal-night" id="reveal-night-playroom_ext" src="map_nocturne.png" style="clip-path:polygon(311.1px 261px, 310.5px 276.2px, 304.7px 290px, 288.3px 300.6px, 278.9px 310.5px, 268.9px 319px, 258.4px 326.3px, 252.5px 335.5px, 250.2px 348px, 247.3px 361.2px, 240.8px 371.8px, 225px 368.5px, 211.5px 365.2px, 201.6px 365.8px, 193.4px 369.1px, 185.2px 375.1px, 177.5px 383px, 168.8px 392.9px, 158.2px 406.7px, 145.9px 421.9px, 134.8px 410px, 124.2px 404.1px, 114.8px 394.2px, 108.4px 381px, 100.8px 373.1px, 93.2px 365.2px, 85px 359.3px, 77.9px 351.3px, 70.3px 344.1px, 61.5px 337.5px, 52.7px 329.6px, 45.1px 320.4px, 38.1px 310.5px, 29.9px 299.9px, 21.1px 288.1px, 14.6px 274.9px, 4.1px 261px, 16.4px 247.2px, 24.6px 234.7px, 34px 223.5px, 48.6px 216.2px, 58.6px 209px, 63.9px 199.7px, 71.5px 192.5px, 78.5px 185.9px, 86.7px 180.6px, 92px 172px, 102px 170.1px, 108.4px 164.8px, 116px 158.9px, 122.5px 151.6px, 130.1px 143.7px, 139.5px 140.4px, 148.8px 141.1px, 158.2px 150.3px, 166.4px 155.6px, 174px 158.2px, 182.2px 160.8px, 189.8px 162.8px, 198px 165.5px, 205.7px 168.1px, 213.9px 171.4px, 222.7px 174.7px, 230.3px 180px, 240.2px 183.3px, 251.4px 187.9px, 263.1px 193.1px, 275.4px 199.7px, 283px 209.6px, 293px 220.2px, 300px 232.7px, 303.5px 246.5px)" draggable="false"/>
-    <img class="map-reveal-night" id="reveal-night-tente_cer"    src="map_nocturne.png" style="clip-path:polygon(294.1px 471.3px, 295.9px 479.9px, 300.6px 489.8px, 301.2px 499.7px, 297.7px 508.2px, 293.6px 516.8px, 291.2px 526px, 288.3px 535.9px, 284.8px 545.1px, 278.9px 552.4px, 272.5px 559px, 266px 566.2px, 258.4px 571.5px, 251.4px 578.1px, 242.6px 581.4px, 233.2px 582.7px, 224.4px 582.7px, 215.6px 582.7px, 206.8px 582.7px, 198px 582.7px, 189.3px 582.7px, 180.5px 582.7px, 170.5px 582.7px, 160.5px 582.7px, 150.6px 580.7px, 143.6px 572.8px, 136.5px 564.9px, 133px 554.4px, 126.6px 547.1px, 118.9px 540.5px, 111.9px 533.3px, 107.8px 523.4px, 103.7px 513.5px, 100.8px 503px, 97.9px 493.1px, 98.4px 481.9px, 101.4px 471.3px, 104.9px 461.4px, 118.4px 453.5px, 133px 448.9px, 136.5px 442.3px, 141.2px 437px, 145.9px 431.8px, 150px 426.5px, 152.3px 419.9px, 155.3px 413.3px, 159.4px 407.4px, 162.3px 400.1px, 167.6px 394.8px, 172.9px 388.9px, 178.1px 383.6px, 184px 376.4px, 191px 371.8px, 198.6px 368.5px, 206.8px 366.5px, 215px 365.8px, 222.7px 369.1px, 229.7px 376.4px, 233.8px 387.6px, 238.5px 395.5px, 243.2px 400.8px, 248.4px 404.7px, 253.7px 408.7px, 257.8px 414px, 265.4px 415.9px, 271.3px 420.6px, 273.6px 427.8px, 276px 435.1px, 278.9px 441.7px, 281.8px 448.9px, 285.4px 455.5px, 288.9px 463.4px)" draggable="false"/>
-    <img class="map-reveal-night" id="reveal-night-mixroom"      src="map_nocturne.png" style="clip-path:polygon(523.2px 514.2px, 532.6px 526px, 532.6px 538.5px, 529.7px 550.4px, 520.9px 559.6px, 515.6px 569.5px, 511.5px 580.1px, 504.5px 588px, 495.7px 594.6px, 486.3px 599.9px, 479.3px 606.4px, 472.3px 613.7px, 458.2px 607.8px, 448.8px 607.1px, 441.8px 612.4px, 434.2px 615.7px, 426.6px 620.3px, 418.9px 624.9px, 410.2px 629.5px, 400.8px 638.1px, 389.6px 644.7px, 378.5px 648px, 366.2px 650px, 354.5px 648px, 346.3px 638.7px, 338.7px 628.9px, 329.3px 622.3px, 321.7px 613.7px, 310.5px 608.4px, 289.5px 609.1px, 262.5px 610.4px, 255.5px 595.2px, 257.2px 576.8px, 279.5px 553.7px, 287.7px 538.5px, 291.8px 526px, 295.3px 514.2px, 300px 503.6px, 302.3px 493.1px, 297.1px 479.9px, 291.2px 465.4px, 305.3px 458.8px, 317px 453.5px, 327.5px 448.9px, 338.7px 446.9px, 345.1px 441px, 352.1px 436.4px, 360.4px 434.4px, 368.6px 433.1px, 375px 429.1px, 381.4px 426.5px, 389.1px 424.5px, 396.1px 423.9px, 403.7px 429.8px, 410.2px 434.4px, 416px 438.4px, 421.9px 441px, 426.6px 445.6px, 431.3px 448.2px, 436.5px 450.9px, 442.4px 451.5px, 447.1px 454.8px, 452.3px 457.5px, 456.4px 462.1px, 459.4px 467.4px, 464.1px 472px, 469.3px 475.9px, 477px 479.2px, 484.6px 483.8px, 495.7px 488.5px, 506.2px 495px, 513.3px 504.3px)" draggable="false"/>
-    <img class="map-reveal-night" id="reveal-night-bat1"         src="map_nocturne.png" style="clip-path:polygon(563.7px 205px, 560.2px 212.3px, 555.5px 218.8px, 551.4px 224.8px, 547.3px 230.7px, 542.6px 235.3px, 540.2px 241.3px, 539.1px 247.2px, 543.2px 259.7px, 541.4px 268.3px, 539.1px 277.5px, 536.1px 286.7px, 536.1px 303.9px, 529.1px 310.5px, 522.1px 319px, 515px 329.6px, 506.8px 342.1px, 497.5px 363.2px, 485.2px 378.4px, 472.3px 373.1px, 460px 367.2px, 447.1px 365.2px, 436.5px 355.3px, 426.6px 346.7px, 417.2px 338.2px, 409px 327.6px, 398.4px 321px, 389.1px 313.1px, 380.9px 303.9px, 375px 292px, 369.7px 280.2px, 364.5px 268.3px, 358.6px 257.1px, 417.8px 225.4px, 418.9px 218.2px, 421.9px 210.9px, 426.6px 205px, 430.7px 199.7px, 433.6px 195.1px, 437.7px 190.5px, 442.4px 187.2px, 447.1px 185.2px, 451.2px 183.3px, 454.7px 181.3px, 457px 178.6px, 458.8px 175.3px, 461.1px 172.7px, 463.5px 170.7px, 465.8px 167.4px, 467px 161.5px, 469.9px 157.5px, 472.9px 154.2px, 477px 151px, 481.1px 149px, 485.2px 146.3px, 489.8px 142.4px, 495.7px 137.1px, 502.1px 133.8px, 509.2px 129.9px, 516.2px 129.9px, 522.7px 131.2px, 530.3px 132.5px, 537.9px 134.5px, 544.9px 137.8px, 553.1px 141.1px, 559px 147px, 565.4px 152.9px, 576.6px 156.9px, 590px 162.2px, 590px 173.4px, 576.6px 187.2px, 570.1px 196.4px)" draggable="false"/>
-    <img class="map-reveal-night" id="reveal-night-bat2"         src="map_nocturne.png" style="clip-path:polygon(711.3px 253.1px, 703.7px 257.7px, 697.9px 261px, 695.5px 264.3px, 899.4px 352px, 690.2px 270.3px, 691.4px 274.9px, 693.8px 280.8px, 693.8px 286.7px, 693.8px 293.3px, 692px 298.6px, 690.2px 305.2px, 689.1px 313.1px, 686.1px 320.4px, 683.2px 330.2px, 696.1px 413.3px, 683.8px 415.9px, 670.9px 418.6px, 658px 420.6px, 645.1px 422.5px, 631.1px 425.8px, 616.4px 429.1px, 599.4px 434.4px, 576.6px 450.2px, 566.6px 431.1px, 556.1px 416.6px, 540.8px 410px, 528.5px 398.8px, 515px 388.3px, 495.7px 381px, 502.1px 354.6px, 517.4px 327px, 537.3px 302.6px, 537.3px 289.4px, 540.2px 276.2px, 544.3px 264.3px, 543.8px 253.1px, 540.8px 241.3px, 548.4px 231.4px, 555.5px 222.1px, 560.7px 212.9px, 565.4px 204.3px, 571.3px 197.1px, 576.6px 188.5px, 584.2px 183.3px, 590px 176.7px, 595.3px 169.4px, 604.7px 167.4px, 615.2px 169.4px, 624px 170.7px, 631.6px 172px, 639.3px 174.7px, 645.7px 176px, 652.1px 177.3px, 658px 180px, 663.3px 183.3px, 668px 188.5px, 671.5px 195.8px, 676.2px 197.1px, 681.4px 197.1px, 686.1px 199.1px, 690.8px 201px, 696.7px 201.7px, 700.8px 205px, 704.3px 209.6px, 709.6px 212.9px, 715.4px 216.2px, 716.6px 222.8px, 716.6px 229.4px, 713.1px 236.6px, 713.1px 242.6px, 713.1px 247.9px)" draggable="false"/>
-    <img class="map-reveal-night" id="reveal-night-cantina"      src="map_nocturne.png" style="clip-path:polygon(899.4px 303.2px, 899.4px 314.4px, 899.4px 326.3px, 899.4px 338.2px, 899.4px 350px, 899.4px 363.2px, 899.4px 377.7px, 899.4px 393.5px, 899.4px 412px, 880.1px 410px, 861.3px 406.1px, 847.3px 403.4px, 835.5px 401.4px, 825px 399.5px, 815.6px 398.1px, 808px 398.1px, 799.8px 398.1px, 792.8px 398.1px, 785.2px 397.5px, 777.5px 397.5px, 770.5px 396.2px, 762.9px 395.5px, 755.3px 395.5px, 747.1px 395.5px, 737.1px 397.5px, 725.4px 399.5px, 707.8px 407.4px, 699px 400.1px, 697.9px 385.6px, 694.9px 374.4px, 691.4px 364.5px, 688.5px 354px, 685px 344.1px, 683.8px 333.5px, 686.7px 323px, 690.2px 312.5px, 692px 303.2px, 694.9px 294px, 694.9px 285.4px, 693.2px 275.5px, 694.3px 266.3px, 702.5px 259.7px, 710.7px 255.1px, 714.3px 247.2px, 714.3px 236px, 717.8px 227.4px, 688.5px 174px, 698.4px 164.1px, 707.8px 152.3px, 717.8px 141.1px, 727.7px 125.9px, 734.2px 89.6px, 737.7px 0px, 761.7px 0px, 785.2px 0px, 808.6px 0px, 832.6px 0px, 857.2px 0px, 883.6px 0px, 899.4px 26.4px, 899.4px 79.8px, 899.4px 119.3px, 899.4px 149px, 899.4px 174px, 899.4px 194.5px, 899.4px 212.9px, 899.4px 228.7px, 899.4px 243.2px, 899.4px 256.4px, 899.4px 268.3px, 899.4px 280.2px, 899.4px 292px)" draggable="false"/>
-    <img class="map-reveal-night" id="reveal-night-pmu"          src="map_nocturne.png" style="clip-path:polygon(464.1px 168.1px, 460.5px 172.7px, 457px 177.3px, 452.9px 180.6px, 448.2px 183.3px, 444.1px 185.2px, 441.2px 187.2px, 438.3px 189.2px, 435.9px 191.2px, 434.2px 193.1px, 432.4px 195.1px, 430.7px 197.8px, 428.9px 201px, 426.6px 203.7px, 424.2px 205.7px, 421.9px 209px, 418.9px 212.9px, 416px 218.8px, 411.9px 218.2px, 407.8px 217.5px, 404.3px 216.9px, 400.2px 216.2px, 397.3px 214.2px, 393.2px 213.6px, 389.1px 212.9px, 384.4px 212.3px, 379.7px 210.9px, 375px 209.6px, 370.3px 207.6px, 362.1px 207.6px, 358px 203px, 355.7px 197.8px, 354.5px 191.8px, 352.1px 185.9px, 349.2px 180.6px, 347.5px 174.7px, 345.1px 168.1px, 342.2px 161.5px, 341px 154.2px, 341.6px 147px, 346.3px 141.1px, 352.1px 136.5px, 356.8px 132.5px, 362.1px 128.5px, 368px 126.6px, 372.1px 123.3px, 376.8px 121.3px, 381.4px 119.3px, 386.1px 118px, 390.8px 116.7px, 394.9px 115.4px, 399px 114px, 403.1px 113.4px, 407.8px 112.1px, 411.9px 114px, 416px 115.4px, 420.1px 117.3px, 423px 120.6px, 426px 124.6px, 428.3px 127.9px, 431.3px 131.2px, 434.2px 132.5px, 437.1px 134.5px, 440px 136.5px, 442.4px 139.1px, 444.1px 143px, 446.5px 145.7px, 448.2px 149px, 450px 152.3px, 454.7px 154.9px, 462.3px 158.2px, 465.8px 162.8px)" draggable="false"/>
+    <img class="map-reveal-night" id="reveal-night-welfare"     src="map_nocturne.png" style="clip-path:polygon(808.6px 537.9px, 805.1px 547.8px, 799.8px 557px, 798.6px 566.2px, 796.3px 575.5px, 789.8px 582.7px, 782.2px 588px, 775.8px 593.9px, 770.5px 599.9px, 763.5px 603.8px, 755.9px 606.4px, 748.8px 608.4px, 742.4px 610.4px, 735.4px 611.7px, 729.5px 613.7px, 723.6px 615.7px, 717.8px 618.3px, 711.3px 619.6px, 704.9px 621.6px, 698.4px 623.6px, 691.4px 622.9px, 685px 622.3px, 678.5px 619.6px, 672.1px 617.7px, 665px 616.3px, 656.8px 615px, 644.5px 619px, 635.7px 615.7px, 627.5px 611.1px, 620.5px 604.5px, 614.1px 597.2px, 603.5px 591.3px, 591.8px 584px, 583.6px 574.1px, 576px 563.6px, 570.7px 551.1px, 560.2px 537.9px, 557.2px 523.4px, 555.5px 508.2px, 559.6px 493.7px, 560.2px 478.6px, 569.5px 466.7px, 581.3px 457.5px, 587.1px 444.9px, 598.8px 437.7px, 612.9px 434.4px, 624px 429.8px, 635.7px 427.1px, 646.9px 424.5px, 657.4px 423.9px, 667.4px 422.5px, 677.3px 421.2px, 686.1px 418.6px, 695.5px 416.6px, 704.9px 412px, 714.8px 408px, 725.4px 405.4px, 737.7px 400.1px, 750px 398.1px, 761.1px 402.1px, 772.3px 406.7px, 779.9px 417.3px, 788.7px 425.8px, 801px 429.8px, 811.5px 437.7px, 811.5px 454.2px, 812.1px 468.7px, 813.3px 481.2px, 813.9px 493.1px, 815px 504.9px, 813.9px 516.1px, 809.2px 527.3px)" draggable="false"/>
+    <img class="map-reveal-night" id="reveal-night-bulle_nego"  src="map_nocturne.png" style="clip-path:polygon(545.5px 415.3px, 559.6px 423.2px, 564.3px 431.8px, 564.3px 440.3px, 565.4px 449.6px, 567.2px 460.1px, 561.3px 466.7px, 557.2px 474px, 549px 478.6px, 539.6px 479.9px, 532px 481.9px, 525px 483.8px, 518.6px 485.8px, 512.1px 487.1px, 505.7px 488.5px, 499.2px 486.5px, 493.4px 484.5px, 487.5px 481.9px, 482.2px 479.2px, 477.5px 475.9px, 472.9px 474px, 468.7px 472px, 465.2px 468.7px, 461.7px 465.4px, 458.2px 462.1px, 455.9px 458.1px, 452.9px 454.8px, 448.8px 452.9px, 445.3px 450.2px, 440.6px 448.2px, 434.2px 446.9px, 428.3px 443.6px, 424.2px 439px, 417.2px 435.1px, 407.8px 429.8px, 406.1px 422.5px, 413.1px 415.3px, 417.8px 408.7px, 420.7px 402.8px, 423px 397.5px, 424.8px 391.6px, 427.1px 386.3px, 429.5px 381px, 433.6px 377.1px, 437.7px 373.1px, 441.8px 369.8px, 447.1px 367.8px, 452.9px 367.8px, 458.8px 369.1px, 464.6px 372.4px, 469.3px 375.1px, 472.9px 376.4px, 476.4px 377.7px, 479.3px 379px, 482.2px 381px, 484.6px 381.7px, 487.5px 382.3px, 489.8px 383px, 492.2px 384.3px, 495.1px 383.6px, 498.6px 383.6px, 501.6px 384.3px, 503.9px 386.3px, 506.8px 387.6px, 509.8px 388.9px, 513.3px 390.9px, 516.8px 392.9px, 519.7px 395.5px, 523.2px 398.1px, 527.9px 401.4px, 531.4px 405.4px, 536.1px 410px)" draggable="false"/>
+    <img class="map-reveal-night" id="reveal-night-playroom_ext" src="map_nocturne.png" style="clip-path:polygon(309.4px 261px, 309.4px 276.2px, 302.9px 290px, 287.1px 299.9px, 277.7px 309.8px, 267.2px 318.4px, 257.2px 325.6px, 252px 334.9px, 249px 346.7px, 245.5px 359.3px, 239.6px 369.8px, 223.8px 366.5px, 210.9px 363.9px, 201px 364.5px, 192.8px 367.8px, 185.2px 373.1px, 177px 381.7px, 168.2px 391.6px, 158.2px 400.8px, 145.9px 419.9px, 135.4px 408.7px, 124.2px 402.8px, 116px 390.9px, 109px 379.7px, 101.4px 371.8px, 93.8px 363.9px, 86.1px 357.9px, 79.1px 350px, 72.7px 341.5px, 62.1px 336.8px, 53.9px 328.9px, 46.3px 319.7px, 39.8px 309.8px, 32.2px 299.3px, 23.4px 288.1px, 16.4px 274.9px, 7px 261px, 18.2px 247.2px, 26.4px 234.7px, 35.7px 224.1px, 50.4px 216.9px, 59.8px 209.6px, 65px 200.4px, 72.7px 193.8px, 80.3px 187.2px, 87.3px 181.3px, 93.2px 173.4px, 102.5px 171.4px, 109.6px 166.1px, 116.6px 160.2px, 123.6px 153.6px, 130.7px 146.3px, 139.5px 141.7px, 148.8px 142.4px, 158.2px 151.6px, 166.4px 157.5px, 174px 160.2px, 181.6px 162.2px, 189.3px 164.1px, 197.5px 166.8px, 205.1px 169.4px, 213.3px 172.7px, 221.5px 176px, 229.1px 181.3px, 238.5px 185.2px, 249.6px 188.5px, 261.9px 193.8px, 274.2px 200.4px, 281.3px 210.3px, 291.2px 220.8px, 298.8px 233.3px, 302.3px 246.5px)" draggable="false"/>
+    <img class="map-reveal-night" id="reveal-night-tente_cer"    src="map_nocturne.png" style="clip-path:polygon(292.4px 471.3px, 294.7px 479.9px, 299.4px 489.8px, 300px 499.7px, 296.5px 508.2px, 292.4px 516.1px, 290px 525.4px, 287.1px 534.6px, 283.6px 543.8px, 278.3px 551.7px, 271.9px 558.3px, 265.4px 565.6px, 257.8px 570.2px, 250.8px 576.8px, 242px 580.1px, 233.2px 581.4px, 224.4px 581.4px, 215.6px 581.4px, 206.8px 581.4px, 198px 581.4px, 189.3px 581.4px, 180.5px 581.4px, 171.1px 581.4px, 161.7px 580.7px, 151.2px 580.1px, 144.7px 570.8px, 137.7px 563.6px, 134.2px 553.1px, 127.1px 546.5px, 120.1px 539.9px, 113.1px 532.6px, 109px 522.7px, 104.9px 512.8px, 102px 503px, 99px 492.4px, 100.2px 481.9px, 102.5px 471.3px, 107.2px 461.4px, 121.9px 454.2px, 134.2px 449.6px, 138.3px 443.6px, 143px 437.7px, 147.1px 432.4px, 151.2px 427.1px, 153.5px 421.2px, 156.4px 414.6px, 160px 408.7px, 163.5px 401.4px, 168.2px 396.8px, 173.4px 390.2px, 178.7px 385px, 184.6px 378.4px, 191.6px 373.1px, 198.6px 369.8px, 206.8px 367.8px, 215px 367.2px, 222.7px 370.5px, 229.1px 379px, 233.2px 390.2px, 237.9px 396.8px, 242.6px 401.4px, 247.9px 405.4px, 252.5px 410px, 256.1px 415.9px, 264.8px 416.6px, 270.1px 421.2px, 273px 428.5px, 274.8px 435.7px, 276px 443px, 280.7px 448.9px, 284.2px 456.2px, 287.1px 463.4px)" draggable="false"/>
+    <img class="map-reveal-night" id="reveal-night-mixroom"      src="map_nocturne.png" style="clip-path:polygon(521.5px 514.2px, 531.4px 526px, 531.4px 537.9px, 527.9px 549.8px, 519.1px 559px, 514.5px 568.9px, 510.4px 579.4px, 503.3px 587.3px, 493.4px 593.3px, 485.2px 598.5px, 478.1px 605.8px, 471.1px 612.4px, 456.4px 603.8px, 448.2px 605.8px, 441.2px 611.1px, 434.2px 614.4px, 426.6px 618.3px, 418.9px 623.6px, 410.2px 627.5px, 400.8px 636.8px, 390.2px 642.7px, 378.5px 646.7px, 366.8px 648.6px, 355.1px 646.7px, 346.9px 637.4px, 339.8px 627.5px, 330.5px 620.9px, 322.9px 612.4px, 311.7px 607.1px, 291.8px 607.8px, 263.7px 609.7px, 257.2px 594.6px, 259.6px 575.5px, 282.4px 552.4px, 290px 537.9px, 293.6px 525.4px, 297.1px 514.2px, 301.8px 503.6px, 303.5px 493.1px, 299.4px 480.5px, 292.4px 466px, 306.4px 460.1px, 318.8px 454.8px, 329.3px 450.2px, 339.8px 447.6px, 345.7px 441.7px, 353.3px 437.7px, 361.5px 435.7px, 369.1px 434.4px, 375.6px 430.4px, 382px 427.8px, 389.1px 425.8px, 396.1px 425.2px, 403.7px 432.4px, 410.2px 436.4px, 416px 439.7px, 421.3px 442.3px, 426px 446.9px, 431.3px 449.6px, 435.9px 452.2px, 441.2px 452.9px, 446.5px 456.2px, 451.2px 459.4px, 455.3px 463.4px, 458.8px 468.7px, 462.3px 472.6px, 468.2px 476.6px, 475.2px 479.9px, 482.8px 484.5px, 492.2px 489.1px, 504.5px 495.7px, 511.5px 504.3px)" draggable="false"/>
+    <img class="map-reveal-night" id="reveal-night-bat1"         src="map_nocturne.png" style="clip-path:polygon(561.9px 205px, 558.4px 212.3px, 553.7px 218.8px, 549.6px 224.8px, 545.5px 230.1px, 541.4px 234.7px, 539.6px 240.6px, 537.9px 246.5px, 542px 258.4px, 540.2px 267px, 537.9px 275.5px, 535px 285.4px, 535px 301.2px, 528.5px 309.2px, 521.5px 317.7px, 514.5px 327.6px, 506.2px 340.1px, 497.5px 360.6px, 485.2px 376.4px, 472.3px 371.8px, 460px 365.8px, 447.7px 363.2px, 437.1px 353.3px, 427.1px 345.4px, 417.8px 336.8px, 409.6px 326.3px, 399.6px 319.7px, 389.6px 312.5px, 381.4px 302.6px, 375.6px 291.4px, 370.9px 279.5px, 365.6px 267.6px, 360.4px 256.4px, 418.9px 224.8px, 420.1px 218.2px, 423px 210.9px, 428.3px 205px, 431.8px 199.7px, 435.4px 195.1px, 439.5px 191.2px, 444.1px 187.9px, 448.8px 185.9px, 452.3px 183.9px, 455.9px 181.9px, 458.2px 179.3px, 460px 176.7px, 462.3px 174px, 464.1px 171.4px, 466.4px 168.8px, 467.6px 163.5px, 470.5px 158.9px, 473.4px 156.2px, 477px 153.6px, 481.1px 151px, 485.2px 148.3px, 489.8px 145px, 495.7px 139.1px, 501.6px 135.1px, 508.6px 131.8px, 515.6px 131.2px, 522.1px 132.5px, 529.7px 133.8px, 536.7px 135.8px, 543.8px 139.1px, 552px 141.7px, 557.8px 147.7px, 564.3px 153.6px, 574.8px 158.2px, 588.9px 162.8px, 588.9px 174px, 574.8px 187.2px, 567.8px 197.1px)" draggable="false"/>
+    <img class="map-reveal-night" id="reveal-night-bat2"         src="map_nocturne.png" style="clip-path:polygon(709.6px 253.1px, 702px 257.7px, 696.7px 261px, 693.8px 263.7px, 690.8px 267px, 689.1px 269.6px, 689.6px 273.6px, 692px 280.2px, 692.6px 285.4px, 692.6px 292px, 691.4px 297.3px, 689.6px 303.9px, 688.5px 311.8px, 685px 319px, 682.6px 328.9px, 695.5px 412px, 683.2px 414.6px, 670.9px 417.3px, 658px 419.2px, 645.1px 421.2px, 631.1px 423.9px, 616.4px 427.8px, 600px 432.4px, 577.7px 447.6px, 567.8px 429.1px, 556.6px 415.9px, 541.4px 409.4px, 529.7px 397.5px, 515.6px 387.6px, 497.5px 379.7px, 503.3px 354px, 520.9px 325px, 538.5px 301.9px, 538.5px 289.4px, 541.4px 276.2px, 546.7px 264.3px, 545.5px 253.1px, 542.6px 241.9px, 549.6px 231.4px, 556.6px 222.8px, 561.9px 213.6px, 567.8px 205.7px, 573px 198.4px, 577.7px 189.8px, 585.4px 184.6px, 591.2px 178px, 596.5px 170.7px, 607px 170.7px, 616.4px 171.4px, 624.6px 172px, 632.2px 173.4px, 639.8px 176px, 646.3px 177.3px, 652.1px 178.6px, 658px 181.3px, 663.3px 185.2px, 667.4px 191.2px, 671.5px 197.1px, 675.6px 198.4px, 680.9px 198.4px, 685px 200.4px, 689.6px 201.7px, 695.5px 203px, 699.6px 206.3px, 703.1px 210.3px, 707.8px 213.6px, 714.3px 216.9px, 715.4px 222.8px, 715.4px 229.4px, 711.9px 236.6px, 711.9px 242.6px, 711.9px 247.9px)" draggable="false"/>
+    <img class="map-reveal-night" id="reveal-night-cantina"      src="map_nocturne.png" style="clip-path:polygon(899.4px 303.2px, 899.4px 314.4px, 899.4px 326.3px, 899.4px 338.2px, 899.4px 350px, 899.4px 363.2px, 899.4px 377.7px, 899.4px 393.5px, 899.4px 412px, 878.3px 408px, 860.7px 404.7px, 846.7px 402.1px, 835px 400.1px, 824.4px 398.1px, 815.6px 396.8px, 807.4px 396.8px, 799.8px 396.8px, 792.2px 396.8px, 785.2px 396.2px, 778.1px 396.2px, 771.1px 394.8px, 763.5px 394.2px, 755.9px 394.2px, 747.7px 394.2px, 737.7px 395.5px, 726px 398.1px, 709px 406.1px, 700.2px 398.8px, 699.6px 384.3px, 696.1px 373.1px, 692.6px 363.2px, 690.2px 353.3px, 686.1px 344.1px, 685px 333.5px, 687.9px 322.3px, 691.4px 312.5px, 693.2px 303.2px, 696.1px 294.7px, 696.1px 285.4px, 694.3px 276.2px, 695.5px 266.3px, 703.7px 260.4px, 711.9px 255.8px, 714.8px 247.9px, 715.4px 237.3px, 718.9px 228.7px, 689.6px 174.7px, 699.6px 165.5px, 708.4px 153.6px, 718.4px 142.4px, 728.3px 127.2px, 737.1px 102.8px, 737.7px 0px, 761.7px 0px, 785.2px 0px, 808.6px 0px, 832.6px 0px, 857.2px 0px, 883.6px 0px, 899.4px 26.4px, 899.4px 79.8px, 899.4px 119.3px, 899.4px 149px, 899.4px 174px, 899.4px 194.5px, 899.4px 212.9px, 899.4px 228.7px, 899.4px 243.2px, 899.4px 256.4px, 899.4px 268.3px, 899.4px 280.2px, 899.4px 292px)" draggable="false"/>
+    <img class="map-reveal-night" id="reveal-night-pmu"          src="map_nocturne.png" style="clip-path:polygon(462.3px 168.1px, 458.8px 172.7px, 455.3px 176.7px, 451.8px 180px, 446.5px 182.6px, 443px 184.6px, 440px 186.5px, 437.7px 188.5px, 435.4px 189.8px, 433.6px 192.5px, 431.3px 194.5px, 430.1px 197.1px, 428.3px 199.7px, 426px 202.4px, 423.6px 204.3px, 421.3px 207px, 418.9px 211.6px, 416px 217.5px, 411.9px 216.9px, 408.4px 215.6px, 404.3px 215.6px, 400.8px 214.9px, 397.3px 212.9px, 393.8px 212.3px, 389.6px 211.6px, 385.5px 210.9px, 380.9px 210.3px, 376.2px 208.3px, 373.8px 204.3px, 363.3px 206.3px, 359.2px 202.4px, 356.8px 197.1px, 355.7px 191.2px, 353.3px 185.9px, 350.4px 180.6px, 348.6px 174px, 346.3px 168.1px, 343.9px 161.5px, 342.2px 154.2px, 342.8px 147px, 348px 141.7px, 352.7px 137.1px, 358px 133.2px, 363.3px 129.9px, 368.6px 127.2px, 373.8px 125.2px, 379.1px 123.9px, 382.6px 120.6px, 387.3px 119.3px, 391.4px 118px, 395.5px 116.7px, 399.6px 115.4px, 403.7px 114.7px, 407.8px 113.4px, 411.9px 116px, 416px 117.3px, 419.5px 118.7px, 423px 121.9px, 425.4px 126.6px, 427.7px 129.9px, 430.7px 131.8px, 433px 133.8px, 435.9px 135.8px, 438.9px 137.8px, 441.2px 140.4px, 443px 143.7px, 445.3px 146.3px, 447.1px 149.6px, 448.2px 152.9px, 452.9px 155.6px, 458.8px 158.9px, 464.6px 162.8px)" draggable="false"/>
     <!-- Night atmosphere glows (positioned on 900x675 map) -->
     <!-- Night glows disabled — new map_nocturne.png provides the atmosphere
     <div class="night-glow fire" id="glow-playroom-ext" style="left:140px;top:295px;"></div>